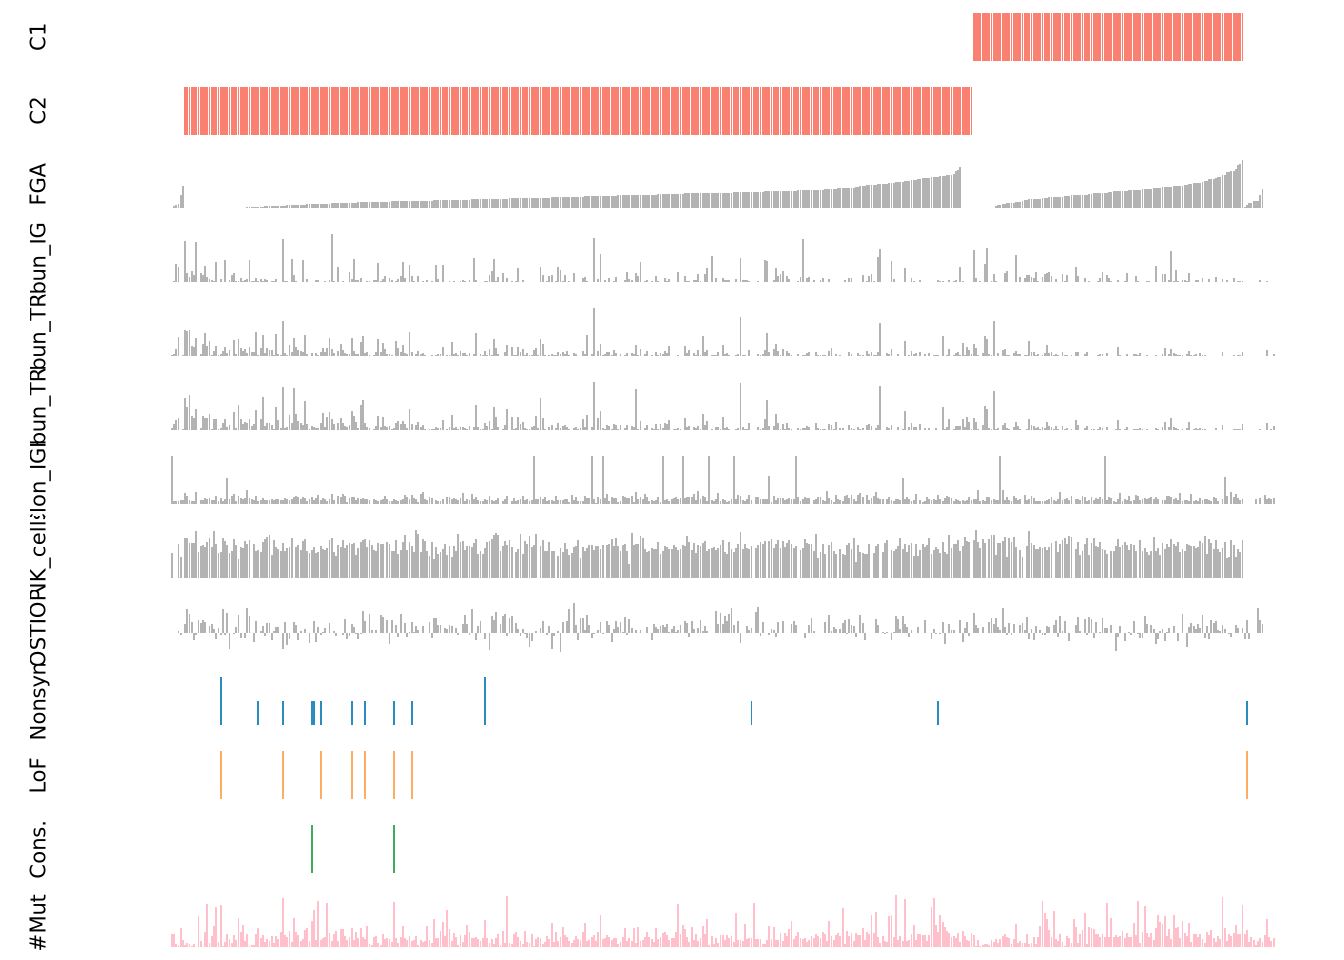
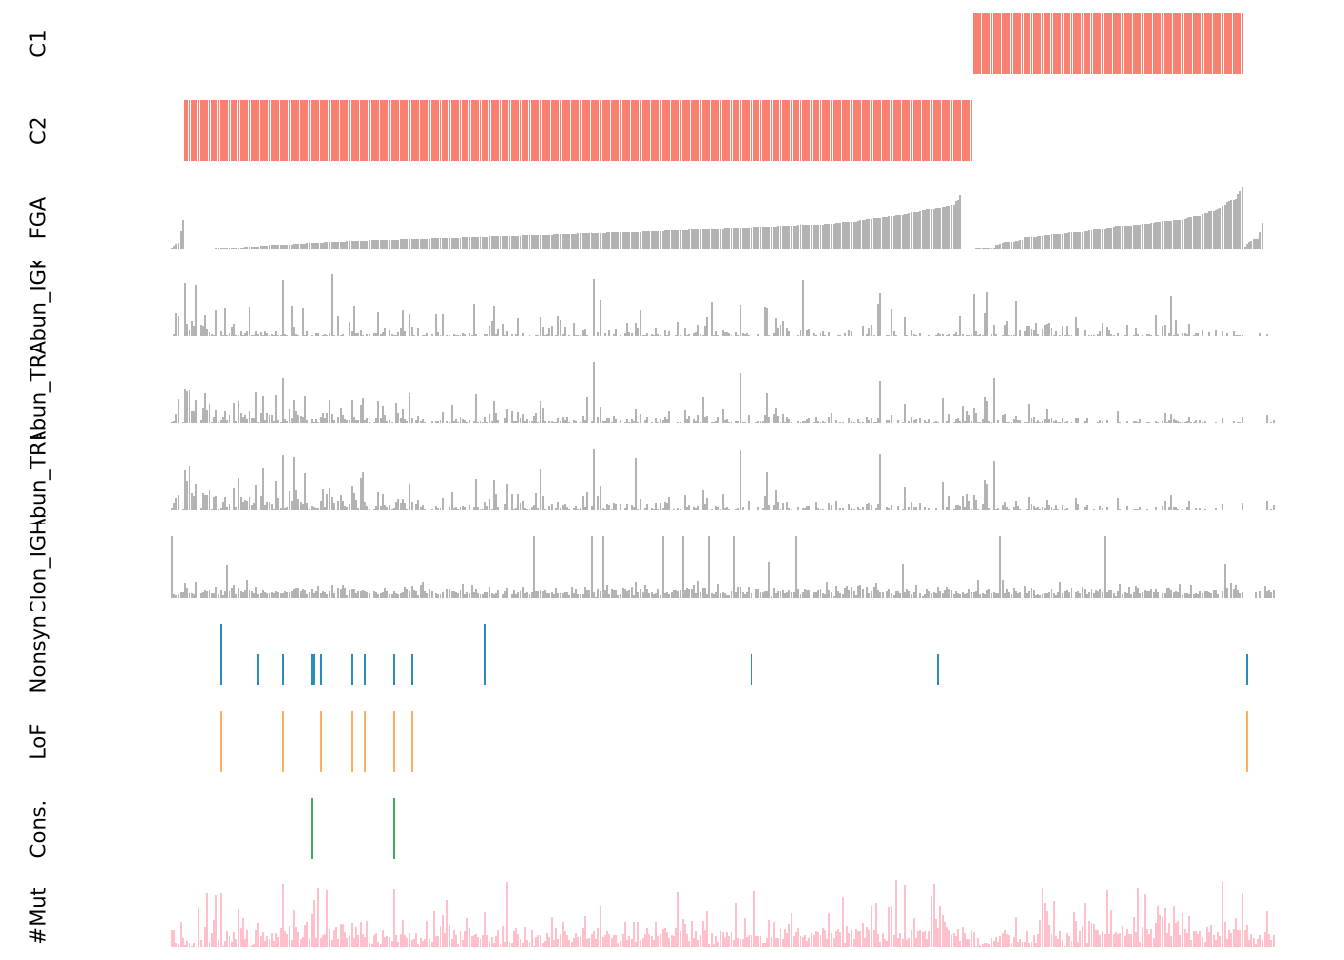
Rebuild immunesubtypes

diff --git a/docs/immunesubtypes.html b/docs/immunesubtypes.html
@@ -11,7 +11,7 @@
 
 <meta name="author" content="Qirui Zhang" />
 
-<meta name="date" content="2026-01-22" />
+<meta name="date" content="2026-01-24" />
 
 <title>Immune Subtypes</title>
 
@@ -380,7 +380,7 @@ div.tocify {
 
 <h1 class="title toc-ignore">Immune Subtypes</h1>
 <h4 class="author">Qirui Zhang</h4>
-<h4 class="date">2026-01-22</h4>
+<h4 class="date">2026-01-24</h4>
 
 </div>
 
@@ -409,7 +409,7 @@ aria-hidden="true"></span> </a>
 <div class="tab-content">
 <div id="summary" class="tab-pane fade in active">
 <p>
-<strong>Last updated:</strong> 2026-01-23
+<strong>Last updated:</strong> 2026-01-24
 </p>
 <p>
 <strong>Checks:</strong> <span
@@ -543,15 +543,15 @@ project makes it easier to run your code on other machines.</p>
 <div class="panel panel-default">
 <div class="panel-heading">
 <p class="panel-title">
-<a data-toggle="collapse" data-parent="#workflowr-checks" href="#strongRepositoryversionstrongahrefhttpsgithubcomLDZhangQRdiffdriveranalysistree79262997111b6b9ecf7a325f29de3d3643af6fb1targetblank7926299a">
+<a data-toggle="collapse" data-parent="#workflowr-checks" href="#strongRepositoryversionstrongahrefhttpsgithubcomLDZhangQRdiffdriveranalysistreece9908a1557ef37fd3c276251925af2bd53614e2targetblankce9908aa">
 <span class="glyphicon glyphicon-ok text-success"
 aria-hidden="true"></span> <strong>Repository version:</strong>
-<a href="https://github.com/LD-ZhangQR/diffdriver-analysis/tree/79262997111b6b9ecf7a325f29de3d3643af6fb1" target="_blank">7926299</a>
+<a href="https://github.com/LD-ZhangQR/diffdriver-analysis/tree/ce9908a1557ef37fd3c276251925af2bd53614e2" target="_blank">ce9908a</a>
 </a>
 </p>
 </div>
 <div
[2 lines of base64/hex data omitted]
 class="panel-collapse collapse">
 <div class="panel-body">
 <p>
@@ -561,7 +561,7 @@ reproducibility.
 </p>
 <p>
 The results in this page were generated with repository version
-<a href="https://github.com/LD-ZhangQR/diffdriver-analysis/tree/79262997111b6b9ecf7a325f29de3d3643af6fb1" target="_blank">7926299</a>.
+<a href="https://github.com/LD-ZhangQR/diffdriver-analysis/tree/ce9908a1557ef37fd3c276251925af2bd53614e2" target="_blank">ce9908a</a>.
 See the <em>Past versions</em> tab to see a history of the changes made
 to the R Markdown and HTML files.
 </p>
@@ -640,6 +640,40 @@ Message
 </tr>
 </thead>
 <tbody>
+<tr>
+<td>
+Rmd
+</td>
+<td>
+<a href="https://github.com/LD-ZhangQR/diffdriver-analysis/blob/91be8da2e27c582ba11928d1c0948c75cee0915e/analysis/immunesubtypes.Rmd" target="_blank">91be8da</a>
+</td>
+<td>
+Qirui Zhang
+</td>
+<td>
[phone redacted]
+</td>
+<td>
+Rebuild immunesubtypes workflowr page
+</td>
+</tr>
+<tr>
+<td>
+html
+</td>
+<td>
+<a href="https://rawcdn.githack.com/LD-ZhangQR/diffdriver-analysis/91be8da2e27c582ba11928d1c0948c75cee0915e/docs/immunesubtypes.html" target="_blank">91be8da</a>
+</td>
+<td>
+Qirui Zhang
+</td>
+<td>
[phone redacted]
+</td>
+<td>
+Rebuild immunesubtypes workflowr page
+</td>
+</tr>
 <tr>
 <td>
 Rmd
@@ -1919,7 +1953,7 @@ Attaching package: &#39;data.table&#39;</code></pre>
   Abun_IGK = &quot;/dartfs/rc/lab/S/Szhao/qiruiz/diffdriver/batch4/Abundance_IGK.txt&quot;,
   Abun_TRA = &quot;/dartfs/rc/lab/S/Szhao/qiruiz/diffdriver/batch4/Abundance_TRA.txt&quot;,
   Abun_TRB = &quot;/dartfs/rc/lab/S/Szhao/qiruiz/diffdriver/batch4/Abundance_TRB.txt&quot;,
-  Clon_IGH = &quot;/dartfs/rc/lab/S/Szhao/qiruiz/diffdriver/batch4/Clonality_IGH.txt&quot;,
+  Clon_IGH = &quot;/dartfs/rc/lab/S/Szhao/qiruiz/diffdriver/batch4/Clonality_IGH.txt&quot;
   # Clon_IGK = &quot;/dartfs/rc/lab/S/Szhao/qiruiz/diffdriver/batch4/Clonality_IGK.txt&quot;
   # Clon_IGL = &quot;/dartfs/rc/lab/S/Szhao/qiruiz/diffdriver/batch4/Clonality_IGL.txt&quot;,
   # Ent_IGH = &quot;/dartfs/rc/lab/S/Szhao/qiruiz/diffdriver/batch4/Entropy_IGH.txt&quot;,
@@ -1927,8 +1961,8 @@ Attaching package: &#39;data.table&#39;</code></pre>
   # Ent_IGL = &quot;/dartfs/rc/lab/S/Szhao/qiruiz/diffdriver/batch4/Entropy_IGL.txt&quot;,
   # Ent_TRA = &quot;/dartfs/rc/lab/S/Szhao/qiruiz/diffdriver/batch4/Entropy_TRA.txt&quot;,
   # Ent_TRB = &quot;/dartfs/rc/lab/S/Szhao/qiruiz/diffdriver/batch4/Entropy_TRB.txt&quot;,
-  NK_cells = &quot;/dartfs/rc/lab/S/Szhao/qiruiz/diffdriver/batch3/tumor_specific_input/HNSC/HNSC_NK_cells.txt&quot;,
-  OSTIOP = &quot;/dartfs/rc/lab/S/Szhao/qiruiz/diffdriver/batch5/tumor_specific_input/HNSC/46/HNSC_ukbEUR_OSTIOP.txt&quot;
+  # NK_cells = &quot;/dartfs/rc/lab/S/Szhao/qiruiz/diffdriver/batch3/tumor_specific_input/HNSC/HNSC_NK_cells.txt&quot;,
+  # OSTIOP = &quot;/dartfs/rc/lab/S/Szhao/qiruiz/diffdriver/batch5/tumor_specific_input/HNSC/46/HNSC_ukbEUR_OSTIOP.txt&quot;
 )
 
 pheno_list &lt;- lapply(names(pheno_files), function(nm) {
@@ -1955,6 +1989,43 @@ pheno_cols &lt;- names(pheno_files)</code></pre>
 [1] &quot;for cvars (0/1 categories), filling in missing values ...&quot;
 [1] &quot;normalizing categorical variables in annotation matrix ...&quot;</code></pre>
 <p><img src="figure/immunesubtypes.Rmd/unnamed-chunk-18-1.png" width="672" style="display: block; margin: auto;" /></p>
+<p>
+<button type="button" class="btn btn-default btn-xs btn-workflowr btn-workflowr-fig" data-toggle="collapse" data-target="#fig-unnamed-chunk-18-1">
+Past versions of unnamed-chunk-18-1.png
+</button>
+</p>
+<div id="fig-unnamed-chunk-18-1" class="collapse">
+<div class="table-responsive">
+<table class="table table-condensed table-hover">
+<thead>
+<tr>
+<th>
+Version
+</th>
+<th>
+Author
+</th>
+<th>
+Date
+</th>
+</tr>
+</thead>
+<tbody>
+<tr>
+<td>
+<a href="https://github.com/LD-ZhangQR/diffdriver-analysis/blob/ce9908a1557ef37fd3c276251925af2bd53614e2/docs/figure/immunesubtypes.Rmd/unnamed-chunk-18-1.png" target="_blank">ce9908a</a>
+</td>
+<td>
+Qirui Zhang
+</td>
+<td>
[phone redacted]
+</td>
+</tr>
+</tbody>
+</table>
+</div>
+</div>
 <br>
 <p>
 <button type="button" class="btn btn-default btn-workflowr btn-workflowr-sessioninfo" data-toggle="collapse" data-target="#workflowr-sessioninfo" style="display: block;">